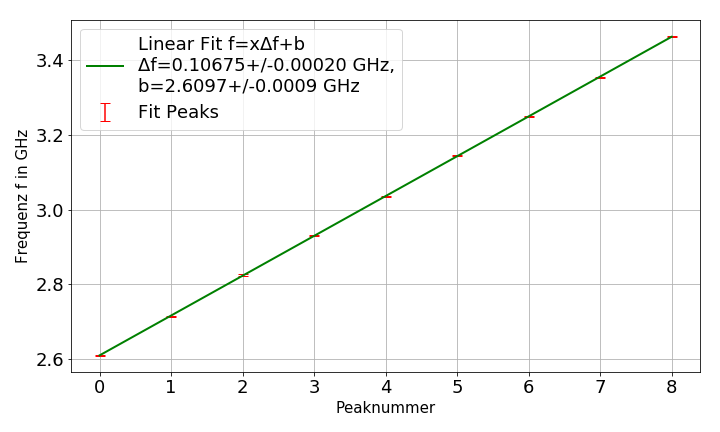
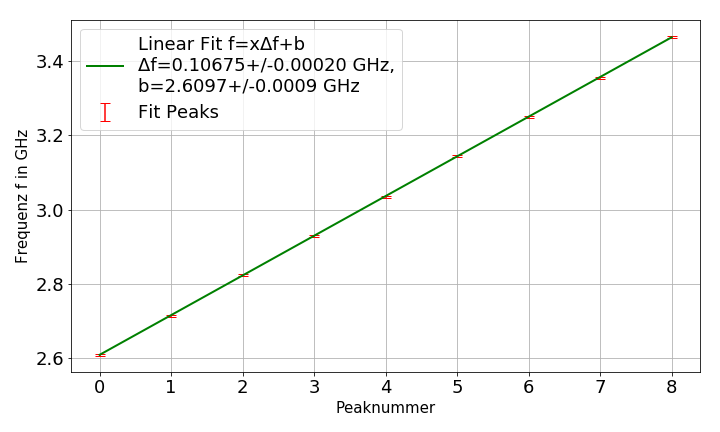
MW more

diff --git a/MW/BA-C-04_MW_01-07-2019.tex b/MW/BA-C-04_MW_01-07-2019.tex
@@ -217,7 +217,7 @@
 	\end{figure}
 
 
-	\subsection{Richtkoppler}
+	\subsection{Richtkoppler} \label{ss_richt}
 
 	In \cref{fig_richtkoppler} ist das Prinzip eines Richtkopplers dargestellt.
 	Dieser basiert auf konstruktiver oder destruktiver Interferenz.
@@ -243,7 +243,7 @@
 	\begin{align}
 		\text{Koppeldämpfung} \quad = 10 \cdot \lg{ \left( \frac{P_1}{P_4} \right) } \si{\deci \bel}
 		\label{eq_koppeld}\\
-		\text{Isolation} \quad = 10 \cdot \lg{ \left( \frac{P_2}{P_4} \right) } \si{\deci \bel}
+		\text{Isolationsdämpfung} \quad = 10 \cdot \lg{ \left( \frac{P_2}{P_4} \right) } \si{\deci \bel}
 		\label{eq_isolation}\\
 		\text{Einfügedämpfung} \quad = 10 \cdot \lg{ \left( \frac{P_1}{P_2} \right) } \si{\deci \bel}
 		\label{eq_einfueged}\\
@@ -381,7 +381,7 @@
 		\label{fig_diode_kali}
 		\centering
 	\end{figure}
-	Mithilfe der Inversen Exponentialfunktion \label{eq_inv_kali} lassen sich im folgenden gemessen Spannungen in eine Leistung umrechnen.
+	Mithilfe der Inversen Exponentialfunktion \cref{eq_inv_kali} lassen sich im folgenden gemessen Spannungen in eine Leistung umrechnen.
 
 	\begin{equation}
 		\label{eq_inv_kali}
@@ -421,7 +421,7 @@
 	%TODO Bandbreite Abschätzen und ggf. vergleichen mit Lit.
 
 	\subsection{Richtkoppler}
-	In analoger Weise erhält man auch die frequenzabhängigen Dämpfungen des Richtkopplers.
+	In analoger Weise erhält man auch die frequenzabhängigen Dämpfungen des Richtkopplers, wie in \cref{ss_richt} definiert.
 	Wobei $P_\text{in}$ wieder \SI{10}{dBm} ist.
 	\begin{figure}[H]
 		\includegraphics[width=0.8\textwidth]{img/richtkop}
@@ -435,7 +435,7 @@
 	\subsubsection*{Diskussion}
 
 	\subsection{Zirkulator}
-	Ebenfalls analog ist die Bestimmung von Durchlass und Sperrdämpfung von Zirkulatoren.
+	Ebenfalls analog zum Isolator ist die Bestimmung von Durchlass und Sperrdämpfung von Zirkulatoren.
 	In \cref{fig_zirk} ist  $P_\text{in}=\SI{10}{dBm}$.
 	\begin{figure}[H]
 		\includegraphics[width=0.8\textwidth]{img/zirkulator}
@@ -447,10 +447,10 @@
 		\centering
 	\end{figure}
 	\subsubsection*{Diskussion}
-	%TODO 9594 pass ca mit lit. Messung png
+	%TODO 9594 u. 12893 pass ca mit lit. Messung png
 
 	\subsection{Stehende Wellen}
-	In \cref{fig_steh_well} sind die Leistungsspektren der zwei vermessenen kurzgeschlossenen Kabel aufgeführt.
+	In \cref{fig_steh_well} sind die Leistungsspektren der zwei vermessenen am Ende kurzgeschlossenen Kabel aufgeführt.
 
 	\begin{figure}[H]
         \centering
@@ -502,6 +502,8 @@
 	c = 2l\Delta f
 	\end{equation}
 	Der Frequenzabstand $\Delta f$ wird durch den Fit gemittelt.
+	Die Unsicherheit der Resonanzfrequenzen $f_n$ ergibt sich aus der Abtastfrequenz, also dem Abstand von Frequenzen in welchem die Leistungen gemessen werden.
+	Mit einer Rechteckverteilung resultiert $u(f_n)= \SI{5}{MHz}/\sqrt{3}$.
 	Die Permittivitätszahl des Dielektrikums ist $\epsilon_r=(c_0/c)^2$, wobei $c_0$ die Lichtgeschwindigkeit im Vakuum ist und $\mu_r=1$ genährt wird.
 	Die Ergebnisse sind in \cref{tb_res} aufgeführt.
 

diff --git a/MW/scripts/gen.py b/MW/scripts/gen.py
@@ -47,6 +47,18 @@ def mean(n):
     err = stat.variance(unv(n))
     return unc.ufloat(unv(k), math.sqrt(usd(k)**2 + err))
 
+def next_min_index(array,index):
+    mmax = len(array)
+    last = array[index]
+    i = index
+    while i < mmax:
+        i = i+1
+        if array[i] < last:
+            last = array[i]
+        else:
+            return i-1
+    return -1
+
 def fft(y):
     N = len(y)
     fft = scipy.fftpack.fft(y)
@@ -240,7 +252,7 @@ for i in range(len(names)):
     #plt.plot(xd,yd,"x",label="Messung")
     plt.errorbar(xd,unv(yd),usd(yd),fmt=" ",capsize=5,label=ll)
 plt.grid()
-plt.legend(prop={'size':fig_legendsize})
+plt.legend(prop={'size':fig_legendsize},loc=1)
 plt.ylabel("Dämpfung α in dB")
 plt.xlabel("Frequenz f in GHz")
 plt.tick_params(labelsize=fig_labelsize)
@@ -267,6 +279,7 @@ for i in range(len(names)):
         ll = "Durchlassdämpfung 12893"
     if i == 3:
         ll = "Sperrdämpfung 12893"
+        print(yd[next_min_index(yd,find_nearest_index(xd,6.5))])
     #plt.plot(xd,yd,"x",label="Messung")
     plt.errorbar(xd,unv(yd),usd(yd),fmt=" ",capsize=5,label=ll)
 plt.grid()
@@ -300,7 +313,7 @@ for i in range(len(names)):
     for j in range(len(yd)):
         ys = yd[j]
         if ys < yl:
-            yrr.append((xd[1]-xd[0])/(2*np.sqrt(3)))
+            yrr.append((xd[1]-xd[0])/(np.sqrt(3)))
             xs.append(xd[j])
     if i == 0:
         ll = "100"
